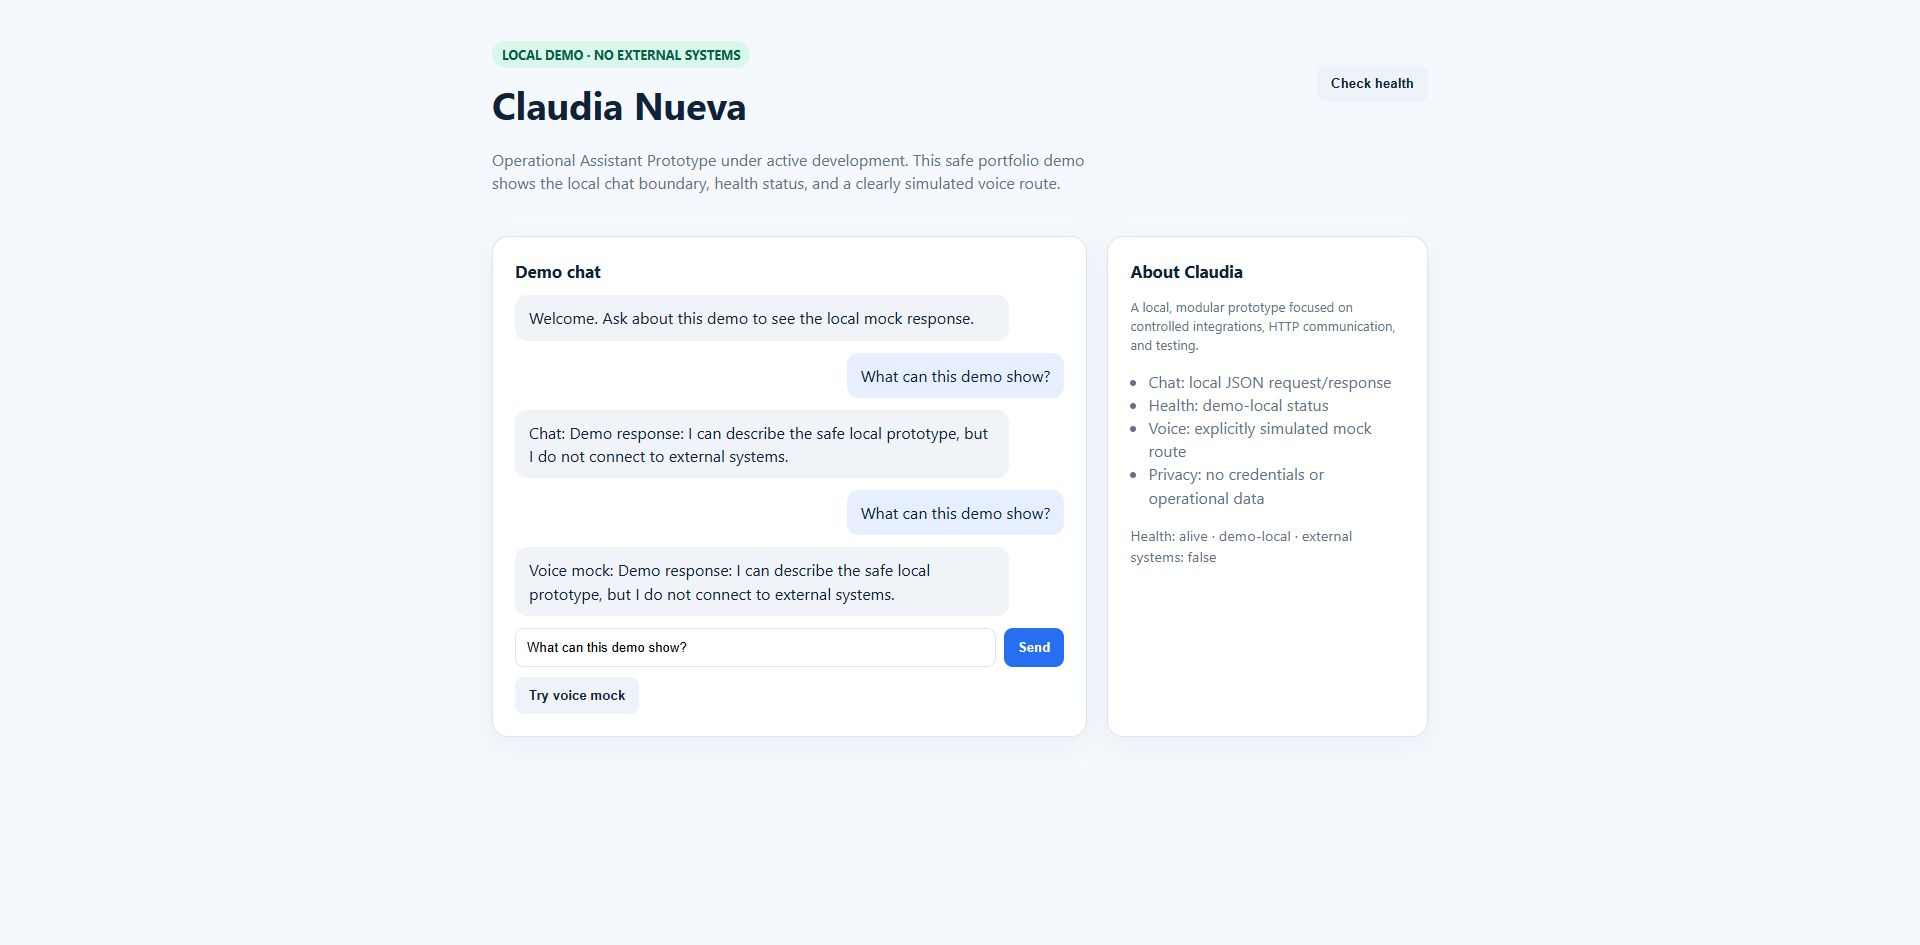
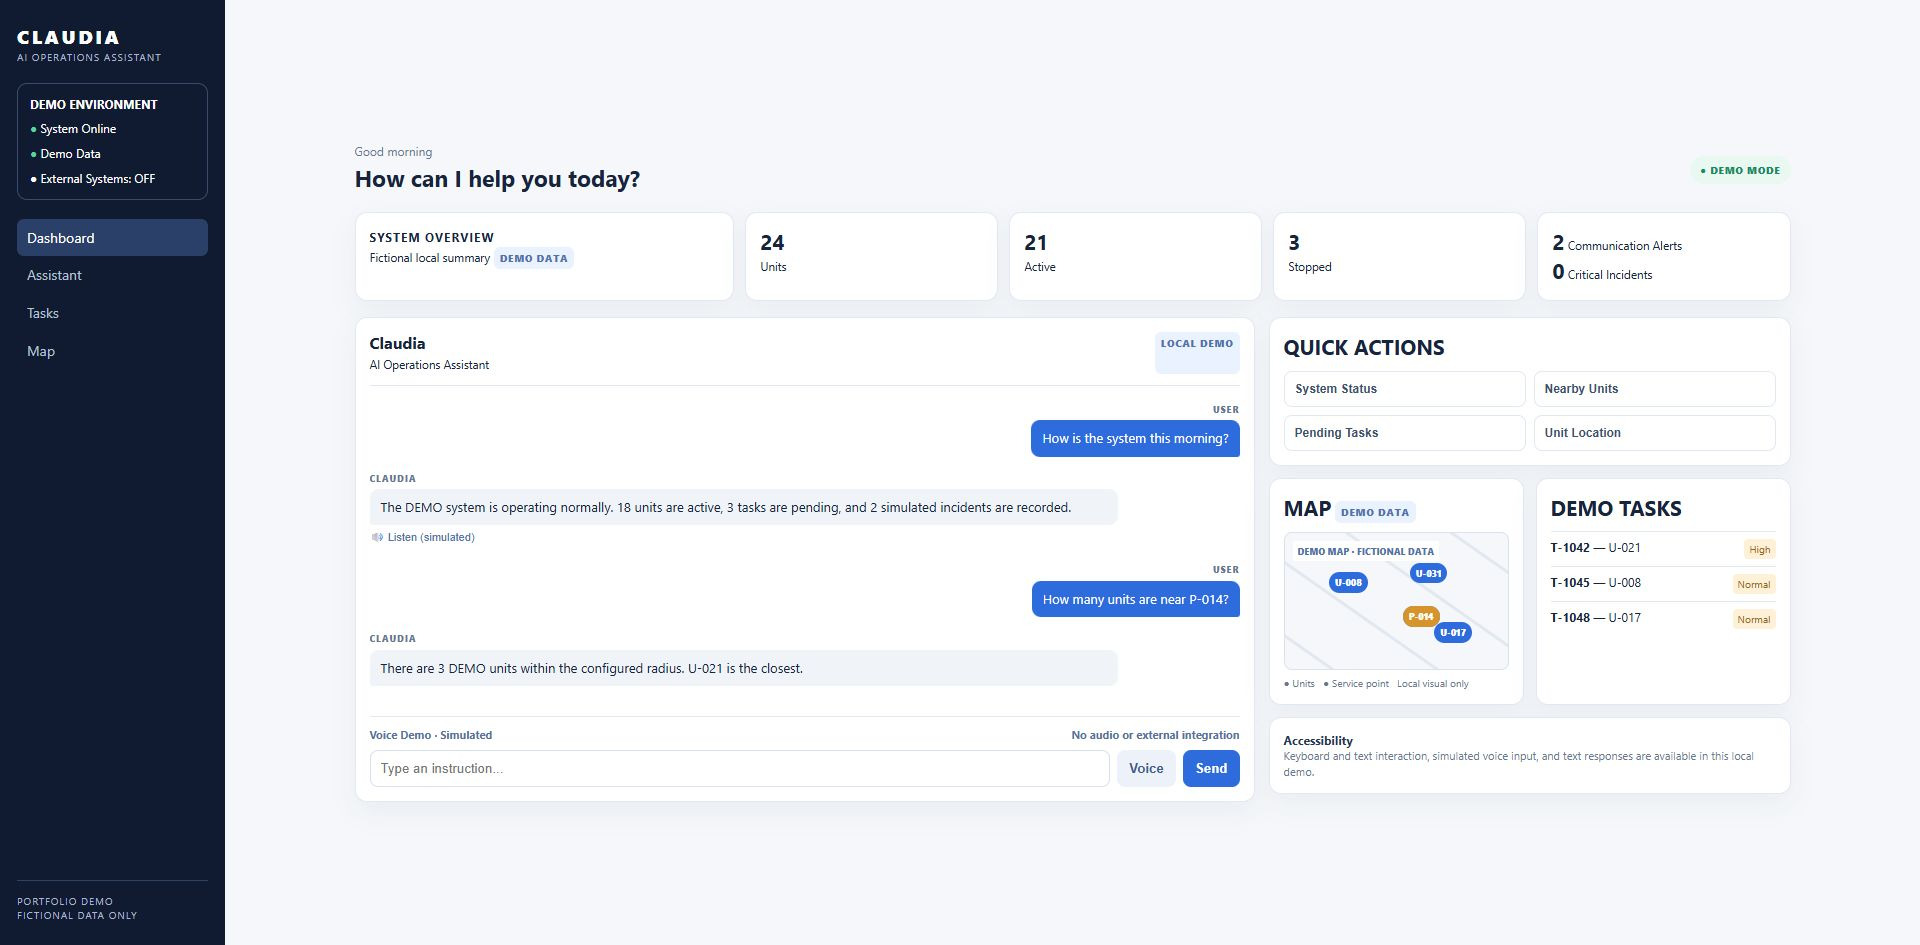
Improve Claudia demo experience

diff --git a/public/index.html b/public/index.html
@@ -1,5 +1,3 @@
-<!doctype html><html lang="en"><meta charset="utf-8"><meta name="viewport" content="width=device-width,initial-scale=1"><title>Claudia Nueva Demo</title><style>
-:root{--ink:#112238;--muted:#617188;--line:#dbe5ef;--blue:#276ef1;--bg:#f5f8fc;--ok:#087f5b}*{box-sizing:border-box}body{margin:0;font:16px/1.45 system-ui,sans-serif;color:var(--ink);background:var(--bg)}main{max-width:980px;margin:auto;padding:42px 22px}.badge{color:#075f45;background:#d9f7eb;padding:5px 10px;border-radius:20px;font-weight:700;font-size:.8rem}.hero{display:flex;justify-content:space-between;gap:20px;align-items:start}.hero h1{font-size:2.35rem;margin:12px 0 6px}.hero p{color:var(--muted);max-width:600px}.grid{display:grid;grid-template-columns:1.3fr .7fr;gap:20px;margin-top:26px}.card{background:white;border:1px solid var(--line);border-radius:16px;padding:22px;box-shadow:0 8px 28px #16335c0b}h2{font-size:1.05rem;margin:0 0 12px}.chat{min-height:260px;display:flex;flex-direction:column;gap:12px}.message{padding:11px 14px;border-radius:12px;max-width:90%}.user{align-self:end;background:#e5efff}.bot{background:#f0f4f8}.meta{font-size:.82rem;color:var(--muted)}form{display:flex;gap:8px;margin-top:12px}input{flex:1;padding:11px;border:1px solid var(--line);border-radius:9px}button{border:0;border-radius:9px;padding:11px 14px;background:var(--blue);color:white;font-weight:700;cursor:pointer}.secondary{background:#eef3fa;color:var(--ink)}.health{font-size:.9rem;color:var(--muted)}.list{padding-left:18px;color:var(--muted)}@media(max-width:720px){.hero,.grid{display:block}.grid{margin-top:18px}.card{margin-top:16px}.hero h1{font-size:2rem}}</style><body><main>
-<span class="badge">LOCAL DEMO · NO EXTERNAL SYSTEMS</span><section class="hero"><div><h1>Claudia Nueva</h1><p>Operational Assistant Prototype under active development. This safe portfolio demo shows the local chat boundary, health status, and a clearly simulated voice route.</p></div><button class="secondary" id="health">Check health</button></section>
-<section class="grid"><article class="card"><h2>Demo chat</h2><div class="chat" id="chat"><div class="message bot">Welcome. Ask about this demo to see the local mock response.</div></div><form id="form"><input id="text" aria-label="Demo message" placeholder="Ask a demo question" required><button>Send</button></form><button class="secondary" id="voice" style="margin-top:10px">Try voice mock</button></article><aside class="card"><h2>About Claudia</h2><p class="meta">A local, modular prototype focused on controlled integrations, HTTP communication, and testing.</p><ul class="list"><li>Chat: local JSON request/response</li><li>Health: demo-local status</li><li>Voice: explicitly simulated mock route</li><li>Privacy: no credentials or operational data</li></ul><p class="health" id="healthOut">Health not checked yet.</p></aside></section>
-</main><script>const chat=document.querySelector('#chat'),say=(t,c)=>{let d=document.createElement('div');d.className='message '+c;d.textContent=t;chat.append(d);chat.scrollTop=chat.scrollHeight};async function ask(path,label){let text=document.querySelector('#text').value.trim()||'Tell me about this demo';say(text,'user');let r=await fetch(path,{method:'POST',headers:{'content-type':'application/json'},body:JSON.stringify({text})}),d=await r.json();say(`${label}: ${d.text}`,'bot')}document.querySelector('#form').onsubmit=e=>{e.preventDefault();ask('/chat','Chat')};document.querySelector('#voice').onclick=()=>ask('/voice','Voice mock');document.querySelector('#health').onclick=async()=>{let d=await (await fetch('/health')).json();healthOut.textContent=`Health: ${d.status} · ${d.mode} · external systems: ${d.external_systems}`}</script></body></html>
+<!doctype html><html lang="en"><meta charset="utf-8"><meta name="viewport" content="width=device-width,initial-scale=1"><title>Claudia | AI Operations Assistant</title><style>
+:root{--navy:#101b31;--blue:#2e6bdd;--bg:#f5f7fa;--line:#e2e8f1;--mut:#687892;--green:#188a5e}*{box-sizing:border-box}body{margin:0;background:var(--bg);font:14px/1.4 system-ui;color:#17243b}.app{min-height:100vh;display:grid;grid-template-columns:225px 1fr}.side{background:var(--navy);color:#fff;padding:23px 17px;display:flex;flex-direction:column;gap:19px}.brand{font-size:19px;font-weight:900;letter-spacing:.14em}.sub,.foot{font-size:10px;letter-spacing:.1em;color:#aab8ce}.env{border:1px solid #3a4c6b;border-radius:10px;padding:12px;font-size:12px;display:grid;gap:8px}.ok{color:#58d49f}.side a{display:block;padding:9px 10px;color:#b4c1d4;text-decoration:none;border-radius:7px}.side a:first-child{background:#2a4068;color:#fff}.foot{margin-top:auto;border-top:1px solid #2e4262;padding-top:13px}.main{max-width:1490px;margin:auto;width:100%;padding:22px 27px}.top{display:flex;align-items:center;justify-content:space-between}.top h1{font-size:23px;margin:2px 0}.mut{font-size:12px;color:var(--mut)}.pill,.tag{font-size:10px;font-weight:800;letter-spacing:.07em}.pill{background:#e9f8f0;color:var(--green);padding:7px 10px;border-radius:99px}.tag{background:#eaf1ff;color:#5073ae;border-radius:6px;padding:4px 6px}.metrics{display:grid;grid-template-columns:1.5fr repeat(4,1fr);gap:11px;margin:16px 0}.card{background:#fff;border:1px solid var(--line);border-radius:12px;padding:14px;box-shadow:0 10px 26px #1e38520d}.card b{font-size:21px}.wide b{font-size:12px;letter-spacing:.08em}.layout{display:grid;grid-template-columns:1.5fr .87fr;gap:14px}.chat{height:485px;display:flex;flex-direction:column}.head{display:flex;justify-content:space-between;border-bottom:1px solid var(--line);padding-bottom:11px}.head b{font-size:16px}.conv{flex:1;overflow:auto;padding:12px 0;display:flex;flex-direction:column;gap:10px}.msg{max-width:86%}.msg.user{align-self:flex-end;text-align:right}.label{font-size:9px;color:var(--mut);font-weight:800;letter-spacing:.1em}.bubble{margin-top:3px;padding:9px 11px;border-radius:9px 9px 9px 3px;background:#f0f4f9;font-size:13px}.user .bubble{background:var(--blue);color:#fff;border-radius:9px 9px 3px 9px}.listen{border:0;background:none;color:#5375aa;padding:4px 0;font-size:11px}.composer{border-top:1px solid var(--line);padding-top:10px}.voice-label{display:flex;justify-content:space-between;font-size:11px;margin-bottom:7px;color:#5572a2;font-weight:700}.input{display:flex;gap:7px}.input input{min-width:0;flex:1;border:1px solid #d7e0ec;border-radius:8px;padding:10px}.btn{border:0;border-radius:8px;padding:10px 12px;background:var(--blue);color:#fff;font-weight:750}.voice{background:#edf2fa;color:#3e5c8d}.right{display:grid;grid-template-columns:1fr 1fr;gap:12px;align-content:start}.right .full{grid-column:1/-1}.quick{display:grid;grid-template-columns:1fr 1fr;gap:8px;margin-top:10px}.quick button{border:1px solid var(--line);background:#fff;border-radius:8px;padding:10px;text-align:left;font-size:12px;color:#3c516e;font-weight:700}.map{height:138px;position:relative;overflow:hidden;margin-top:9px;border:1px solid #d9e2ed;border-radius:8px;background:repeating-linear-gradient(35deg,#f5f7fa 0 25px,#e2e8f0 26px 28px,#f5f7fa 29px 60px)}.map:before{content:'DEMO MAP · FICTIONAL DATA';position:absolute;z-index:2;top:8px;left:8px;background:#fff;padding:4px 5px;font-size:9px;font-weight:800;color:#5273a9}.pin{position:absolute;z-index:1;background:var(--blue);color:#fff;border-radius:99px;padding:4px 6px;font-size:9px;font-weight:800}.p1{left:53%;top:54%}.p2{left:20%;top:29%}.p3{right:16%;bottom:19%}.p4{right:27%;top:22%}.site{background:#d8942c}.legend{font-size:10px;color:var(--mut);margin-top:6px}.tasks{display:grid;gap:7px;margin-top:8px}.task{border-top:1px solid var(--line);padding-top:7px;font-size:12px}.task em{float:right;font-style:normal;font-size:10px;padding:3px 5px;border-radius:4px;background:#fff1d8;color:#966416}.access{font-size:11px;color:var(--mut)}.access b{font-size:12px;color:#253754}@media(max-width:1000px){.metrics{grid-template-columns:repeat(2,1fr)}.wide{grid-column:1/-1}.layout{grid-template-columns:1fr}.chat{height:430px}}@media(max-width:680px){.app{display:block}.side{padding:14px}.env,.foot{display:none}.side nav{display:flex;overflow:auto}.side a{white-space:nowrap}.main{padding:17px 11px}.metrics,.right{display:block}.card{margin-bottom:10px}.input{flex-wrap:wrap}.input input{flex-basis:100%}.top{align-items:start}.pill{margin-top:4px}}
+</style><body><div class="app"><aside class="side"><div><div class="brand">CLAUDIA</div><div class="sub">AI OPERATIONS ASSISTANT</div></div><div class="env"><b>DEMO ENVIRONMENT</b><span><i class="ok">●</i> System Online</span><span><i class="ok">●</i> Demo Data</span><span>● External Systems: OFF</span></div><nav><a href="#assistant">Dashboard</a><a href="#assistant">Assistant</a><a href="#tasks">Tasks</a><a href="#map">Map</a></nav><div class="foot">PORTFOLIO DEMO<br>FICTIONAL DATA ONLY</div></aside><main class="main"><header class="top"><div><div class="mut">Good morning</div><h1>How can I help you today?</h1></div><span class="pill">● DEMO MODE</span></header><section class="metrics"><div class="card wide"><b>SYSTEM OVERVIEW</b><br><small>Fictional local summary</small> <span class="tag">DEMO DATA</span></div><div class="card"><b>24</b><br><small>Units</small></div><div class="card"><b>21</b><br><small>Active</small></div><div class="card"><b>3</b><br><small>Stopped</small></div><div class="card"><b>2</b><small> Communication Alerts</small><br><b>0</b><small> Critical Incidents</small></div></section><section class="layout"><article class="card chat" id="assistant"><div class="head"><div><b>Claudia</b><br><small>AI Operations Assistant</small></div><span class="tag">LOCAL DEMO</span></div><div class="conv" id="conv"><div class="msg user"><span class="label">USER</span><div class="bubble">How is the system this morning?</div></div><div class="msg"><span class="label">CLAUDIA</span><div class="bubble">The DEMO system is operating normally. 18 units are active, 3 tasks are pending, and 2 simulated incidents are recorded.</div><button class="listen">🔊 Listen (simulated)</button></div><div class="msg user"><span class="label">USER</span><div class="bubble">How many units are near P-014?</div></div><div class="msg"><span class="label">CLAUDIA</span><div class="bubble">There are 3 DEMO units within the configured radius. U-021 is the closest.</div></div></div><div class="composer"><div class="voice-label"><span>Voice Demo · Simulated</span><span>No audio or external integration</span></div><form class="input" id="form"><input id="text" aria-label="Type your message" placeholder="Type an instruction..." required><button type="button" class="btn voice" id="voice">Voice</button><button class="btn">Send</button></form></div></article><aside class="right"><section class="card full"><b>QUICK ACTIONS</b><div class="quick"><button data-q="How is the system this morning?">System Status</button><button data-q="How many units are near P-014?">Nearby Units</button><button data-q="What tasks are pending?">Pending Tasks</button><button data-q="Show U-021 location.">Unit Location</button></div></section><section class="card" id="map"><b>MAP</b> <span class="tag">DEMO DATA</span><div class="map"><span class="pin p1">U-021</span><span class="pin p2">U-008</span><span class="pin p3">U-017</span><span class="pin p4">U-031</span><span class="pin p1 site">P-014</span></div><div class="legend">● Units &nbsp; ● Service point &nbsp; Local visual only</div></section><section class="card" id="tasks"><b>DEMO TASKS</b><div class="tasks"><div class="task"><strong>T-1042</strong> — U-021 <em>High</em></div><div class="task"><strong>T-1045</strong> — U-008 <em>Normal</em></div><div class="task"><strong>T-1048</strong> — U-017 <em>Normal</em></div></div></section><section class="card access full"><b>Accessibility</b><br>Keyboard and text interaction, simulated voice input, and text responses are available in this local demo.</section></aside></section></main></div><script>const c=document.querySelector('#conv'),i=document.querySelector('#text');function add(x,u){let d=document.createElement('div');d.className='msg '+(u?'user':'');d.innerHTML='<span class="label">'+(u?'USER':'CLAUDIA')+'</span><div class="bubble"></div>';d.querySelector('.bubble').textContent=x;c.append(d);c.scrollTop=c.scrollHeight}async function ask(q,r='/chat'){add(q,1);i.value='';let x=await fetch(r,{method:'POST',headers:{'content-type':'application/json'},body:JSON.stringify({text:q})}),d=await x.json();add(d.text)}document.querySelector('#form').onsubmit=e=>{e.preventDefault();if(i.value.trim())ask(i.value.trim())};document.querySelector('#voice').onclick=()=>ask(i.value.trim()||'How is the system this morning?','/voice');document.querySelectorAll('[data-q]').forEach(b=>b.onclick=()=>ask(b.dataset.q));</script></body></html>

diff --git a/app.py b/app.py
@@ -3,28 +3,45 @@ from http.server import BaseHTTPRequestHandler, ThreadingHTTPServer
 import json
 from pathlib import Path
 
-DEMO_REPLY = "Demo response: I can describe the safe local prototype, but I do not connect to external systems."
+
+def answer(text):
+    prompt = text.lower()
+    responses = [
+        ("system" in prompt, "The DEMO system is operating normally. 18 units are active, 3 tasks are pending, and 2 simulated incidents are recorded.", False, False),
+        ("near" in prompt and "p-014" in prompt, "There are 3 DEMO units within the configured radius of P-014. U-021 is the closest.", True, False),
+        ("closest" in prompt, "U-021 is the closest at 0.4 km. It is currently en route.", True, False),
+        ("north" in prompt and "report to" not in prompt, "North District is a fictional demo area. U-021 and U-017 are shown there for this portfolio scenario.", True, False),
+        ("pending" in prompt, "There are 3 fictional pending tasks in this demo: T-1042, T-1045, and T-1048.", False, False),
+        ("location" in prompt, "Displaying the demo location for U-021.", True, False),
+        ("send a message" in prompt, "What message would you like to send?", False, False),
+        ("report to north service point 3" in prompt, "Message prepared for U-021.", False, True),
+    ]
+    for match, reply, show_map, prepared in responses:
+        if match:
+            return {"text": reply, "show_map": show_map, "message_ready": prepared}
+    return {"text": "This local portfolio demo can show fictional system status, units, tasks, a demo location, or a safe message-preparation flow.", "show_map": False, "message_ready": False}
+
 
 class Handler(BaseHTTPRequestHandler):
-    def log_message(self, *_):
-        return
+    def log_message(self, *_): return
     def reply(self, status, payload):
-        body=json.dumps(payload).encode()
-        self.send_response(status); self.send_header("Content-Type","application/json")
-        self.send_header("Content-Length",str(len(body))); self.end_headers(); self.wfile.write(body)
+        body = json.dumps(payload).encode(); self.send_response(status)
+        self.send_header("Content-Type", "application/json"); self.send_header("Content-Length", str(len(body)))
+        self.end_headers(); self.wfile.write(body)
     def do_GET(self):
         if self.path in {"/", "/index.html"}:
-            content=(Path(__file__).parent / "public" / "index.html").read_bytes()
-            self.send_response(200); self.send_header("Content-Type","text/html; charset=utf-8"); self.send_header("Content-Length",str(len(content))); self.end_headers(); self.wfile.write(content); return
-        if self.path == "/health": return self.reply(200,{"status":"alive","mode":"demo-local","external_systems":False})
-        self.reply(404,{"error":"not found"})
+            content = (Path(__file__).parent / "public" / "index.html").read_bytes()
+            self.send_response(200); self.send_header("Content-Type", "text/html; charset=utf-8"); self.send_header("Content-Length", str(len(content))); self.end_headers(); self.wfile.write(content); return
+        if self.path == "/health": return self.reply(200, {"status":"alive", "mode":"demo-local", "external_systems":False})
+        self.reply(404, {"error":"not found"})
     def do_POST(self):
-        if self.path not in {"/chat","/voice"}: return self.reply(404,{"error":"not found"})
+        if self.path not in {"/chat", "/voice"}: return self.reply(404, {"error":"not found"})
         try:
-            size=int(self.headers.get("Content-Length","0")); payload=json.loads(self.rfile.read(size) or b"{}")
-            if not isinstance(payload,dict) or not str(payload.get("text","")).strip(): raise ValueError("text is required")
-            self.reply(200,{"text":DEMO_REPLY,"source":"MOCK","channel":"voice-simulated" if self.path=="/voice" else "text"})
-        except (ValueError,json.JSONDecodeError) as error: self.reply(400,{"error":str(error)})
+            size = int(self.headers.get("Content-Length", "0")); data = json.loads(self.rfile.read(size) or b"{}")
+            text = str(data.get("text", "")).strip() if isinstance(data, dict) else ""
+            if not text: raise ValueError("text is required")
+            result = answer(text); result.update({"source":"DEMO DATA", "channel":"voice-simulated" if self.path == "/voice" else "text"}); self.reply(200, result)
+        except (ValueError, json.JSONDecodeError) as error: self.reply(400, {"error":str(error)})
 
-if __name__ == "__main__":
-    ThreadingHTTPServer(("127.0.0.1",8765),Handler).serve_forever()
+
+if __name__ == "__main__": ThreadingHTTPServer(("127.0.0.1",8765),Handler).serve_forever()
